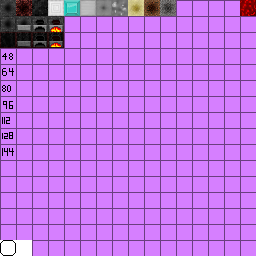
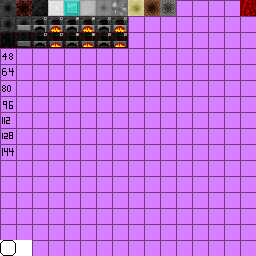
Added furnace indicator lights

Changed region(s): [[0.2188, 0.0625, 0.5, 0.1875], [0.1562, 0.125, 0.1875, 0.1562], [0.1562, 0.0625, 0.1875, 0.0938]]

diff --git a/furnace/BlockCompactFurnace.java b/furnace/BlockCompactFurnace.java
@@ -59,10 +59,13 @@ public class BlockCompactFurnace extends BlockFurnace {
 		int blockIndex = this.blockImageIndex + 16*this.getFirstMetaBit(ba,x,y,z);
 		if(s==0 || s==1) return blockIndex;
 		TileEntityCompactFurnace te = (TileEntityCompactFurnace)(ba.getBlockTileEntity(x, y, z));
-		boolean hasOutput = te.hasOutput();
+		boolean hasOutput = te.hasOutput(),
+				hasFuel = te.hasFuel();
 		int front = getFront(ba,x,y,z);
 		boolean isActive = isActive(ba,x,y,z);
-        return (s!=front)?blockIndex+1:(isActive?blockIndex+3:blockIndex+2);
+		System.out.printf("%d, %d, %d: %shasFuel, %shasOut%n",x,y,z,hasFuel?"":"no",hasOutput?"":"no");
+		int out = blockIndex + ((s!=front)?1:(hasFuel?hasOutput?4:2:6));
+		return (isActive && s==front)?out+1:out;
 	}
 	
 	@Override public int getBlockTextureFromSide(int side) {
@@ -72,26 +75,15 @@ public class BlockCompactFurnace extends BlockFurnace {
 		int blockIndex = blockImageIndex+16*Integer.parseInt(""+getMetaStr(meta)[0]);
 		return (side==1||side==0)?blockIndex:(side==3?blockIndex+2:blockIndex+1);
 	}
-	public static void updateFurnaceBlockState(boolean isActive, World world, int x, int y, int z) {
-		if(isActive) setIsActive(world,x,y,z,true);
-		else setIsActive(world,x,y,z,false);
+	public void updateBlockNonStatic(World world, int x, int y, int z) {
+		int meta = world.getBlockMetadata(x,y,z);
+		keepInv=true;
+		world.setBlockMetadata(x,y,z,meta+1);
+		world.setBlockMetadataWithNotify(x,y,z,meta);
+		this.setIsActive(world, x, y, z, ((TileEntityCompactFurnace)world.getBlockTileEntity(x, y, z)).isBurning());
+		keepInv=false;
+	}
 		
-		int meta = world.getBlockMetadata(x, y, z);
-        TileEntity te = world.getBlockTileEntity(x, y, z);
-        
-        keepInv = true;
-        world.setBlockWithNotify(x, y, z, CompactStuff.furnace.blockID);
-        world.setBlockMetadata(x,y,z,meta);
-        keepInv = false;
-
-        
-        if (te != null)
-        {
-            te.validate();
-            world.setBlockTileEntity(x, y, z, te);
-        }
-    }
-	
 	@Override public TileEntity createNewTileEntity(World par1World,int meta) {
         if(meta<8) return new TileEntityCobbleFurnace();
         return new TileEntityCarbonFurnace();

diff --git a/furnace/TileEntityCompactFurnace.java b/furnace/TileEntityCompactFurnace.java
@@ -14,6 +14,7 @@ import net.minecraft.item.ItemTool;
 import net.minecraft.nbt.NBTTagCompound;
 import net.minecraft.nbt.NBTTagList;
 import net.minecraft.tileentity.TileEntity;
+import net.minecraft.world.World;
 import net.minecraftforge.common.ForgeDirection;
 import net.minecraftforge.common.ISidedInventory;
 import cpw.mods.fml.common.registry.GameRegistry;
@@ -60,13 +61,15 @@ public abstract class TileEntityCompactFurnace extends TileEntity implements IIn
     }
 	
 	public boolean hasOutput() {
-		return getStackInSlot(2)!=null;
+		return getStackInSlot(2)!=null && getStackInSlot(2).stackSize>0;
+	}
+	public boolean hasFuel() {
+		return getItemBurnTime(getStackInSlot(1))>0;
 	}
 	
-
-	public void updateBlock() {
-		BlockCompactFurnace.updateFurnaceBlockState(getFurnaceBurnTime()>0,
-				this.worldObj, this.xCoord, this.yCoord, this.zCoord);
+	@Override public void onInventoryChanged() {
+		super.onInventoryChanged();
+		((BlockCompactFurnace)Block.blocksList[worldObj.getBlockId(xCoord, yCoord, zCoord)]).updateBlockNonStatic(worldObj,xCoord,yCoord,zCoord);
 	}
 	
 	public static int getItemBurnTime(ItemStack stack)

diff --git a/tools/Paxel.java b/tools/Paxel.java
@@ -82,7 +82,7 @@ public class Paxel extends ItemTool {
     	}
     	return super.onBlockDestroyed(thisStack, world, blockSlot, x, y, z, player);
     } private int recursivelyBreakThings(Block[] breakThese, World world, int x, int y, int z, EntityPlayer player,int ox,int oy,int oz) {
-    	if(Math.abs(ox-x)>32 || Math.abs(oy-y)>32 || Math.abs(oz-z)>32) return 0;
+    	if(Math.abs(ox-x)>16 || Math.abs(oy-y)>16 || Math.abs(oz-z)>16) return 0;
     	int thisBlockID = world.getBlockId(x, y, z);
     	if(thisBlockID==0 || thisBlockID==1) return 0;
     	boolean edgeCase = true;

diff --git a/furnace/TileEntityCarbonFurnace.java b/furnace/TileEntityCarbonFurnace.java
@@ -104,7 +104,6 @@ public class TileEntityCarbonFurnace extends TileEntityCompactFurnace {
 
             if (burning != this.furnaceBurnTime > 0) {
                 invChange = true;
-                updateBlock();
             }
         }
 

diff --git a/furnace/TileEntityCobbleFurnace.java b/furnace/TileEntityCobbleFurnace.java
@@ -58,7 +58,6 @@ public class TileEntityCobbleFurnace extends TileEntityCompactFurnace {
 
             if (burning != this.furnaceBurnTime > 0) {
                 invChange = true;
-                updateBlock();
             }
         }
 

diff --git a/furnace/ContainerCompactFurnace.java b/furnace/ContainerCompactFurnace.java
@@ -147,7 +147,7 @@ public class ContainerCompactFurnace extends Container {
 
             var4.onPickupFromSlot(par1EntityPlayer, var5);
         }
-
+        this.furnace.onInventoryChanged();
         return var3;
     }
 }
